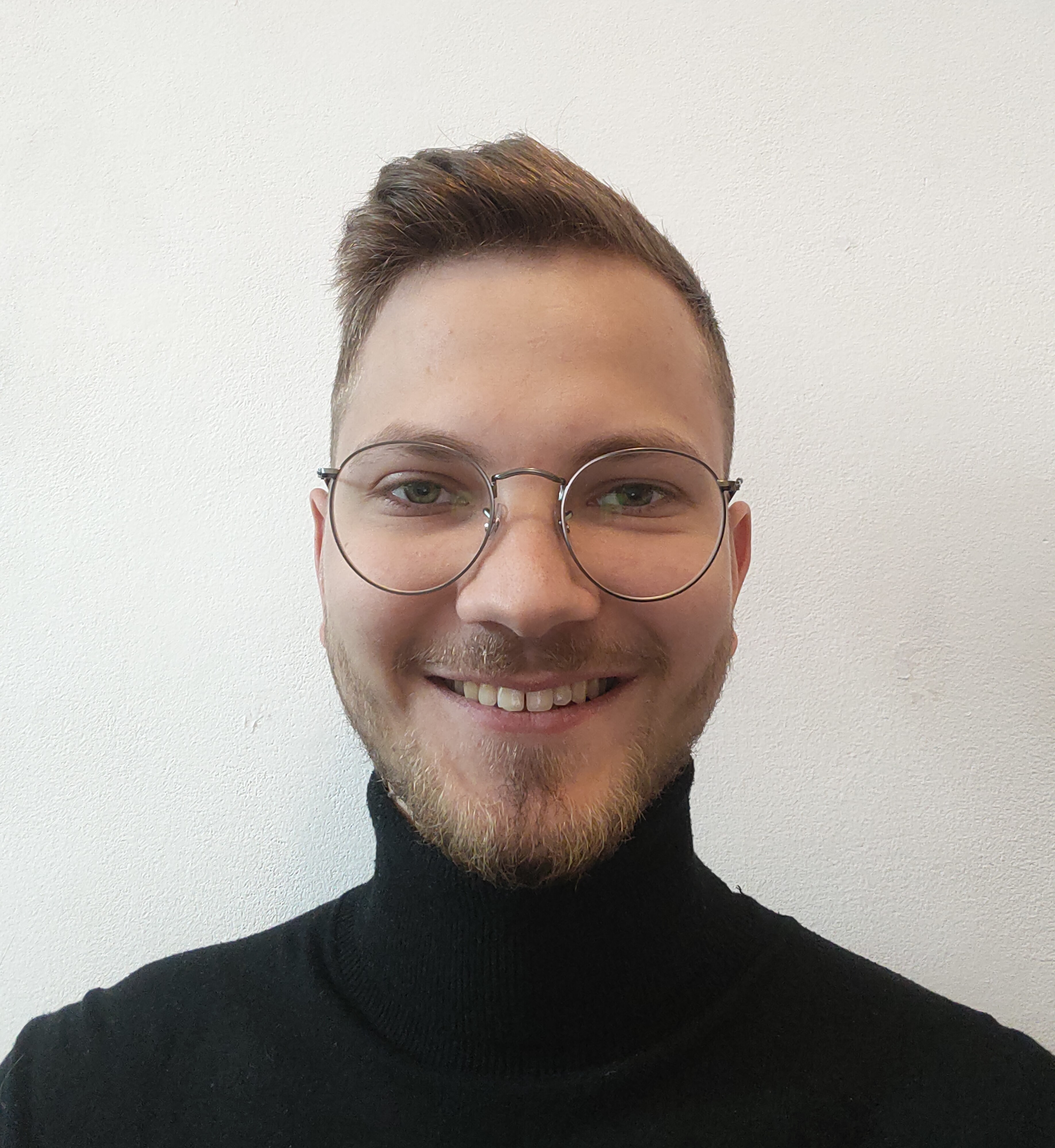
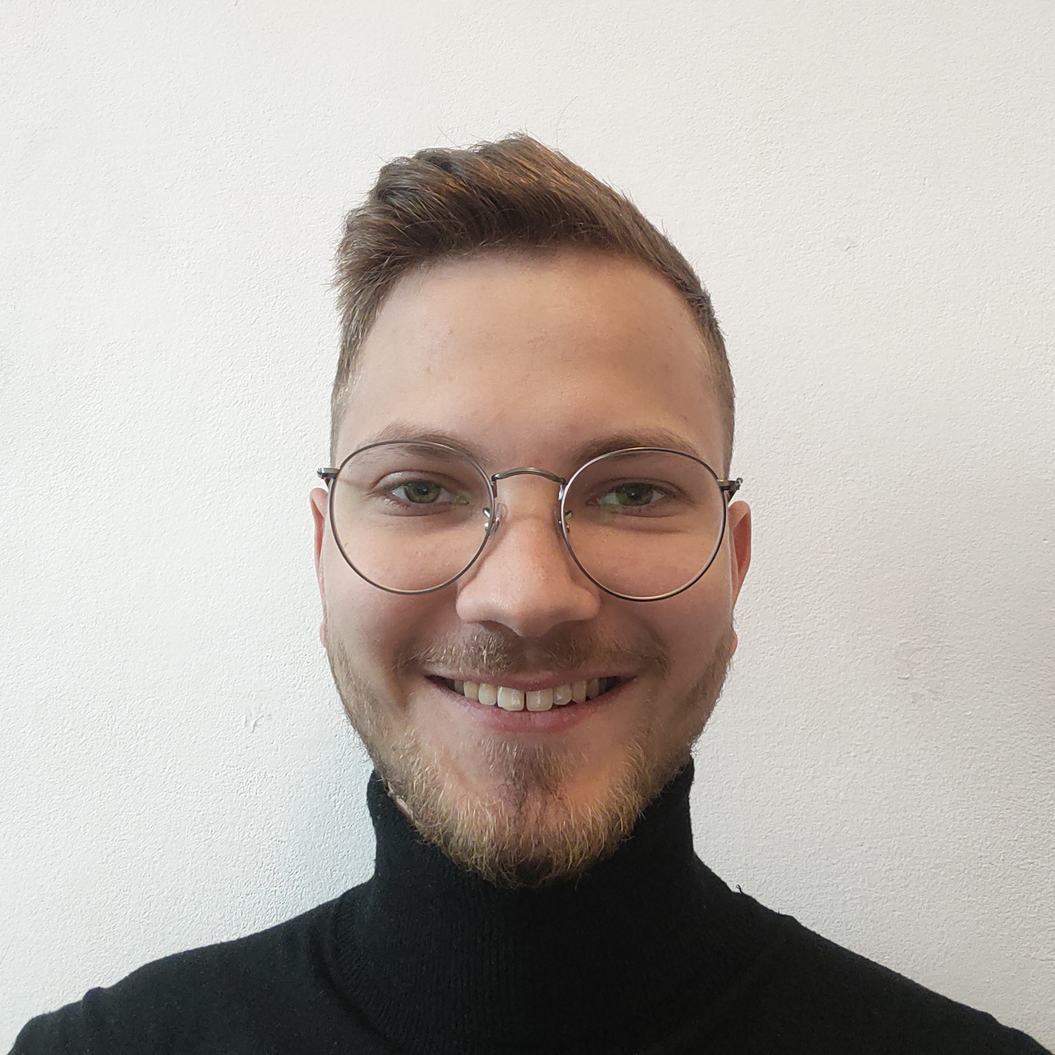
myPhoto size changed

Changed region(s): [[0.0, 0.0931, 1.0, 1.0]]

diff --git a/css/section.css b/css/section.css
@@ -30,7 +30,7 @@
     display: block;
     max-width: 35%;
     height: fit-content;
-    border-radius: 70px;
+    border-radius: 50%;
     border-style: none;
 }
 
